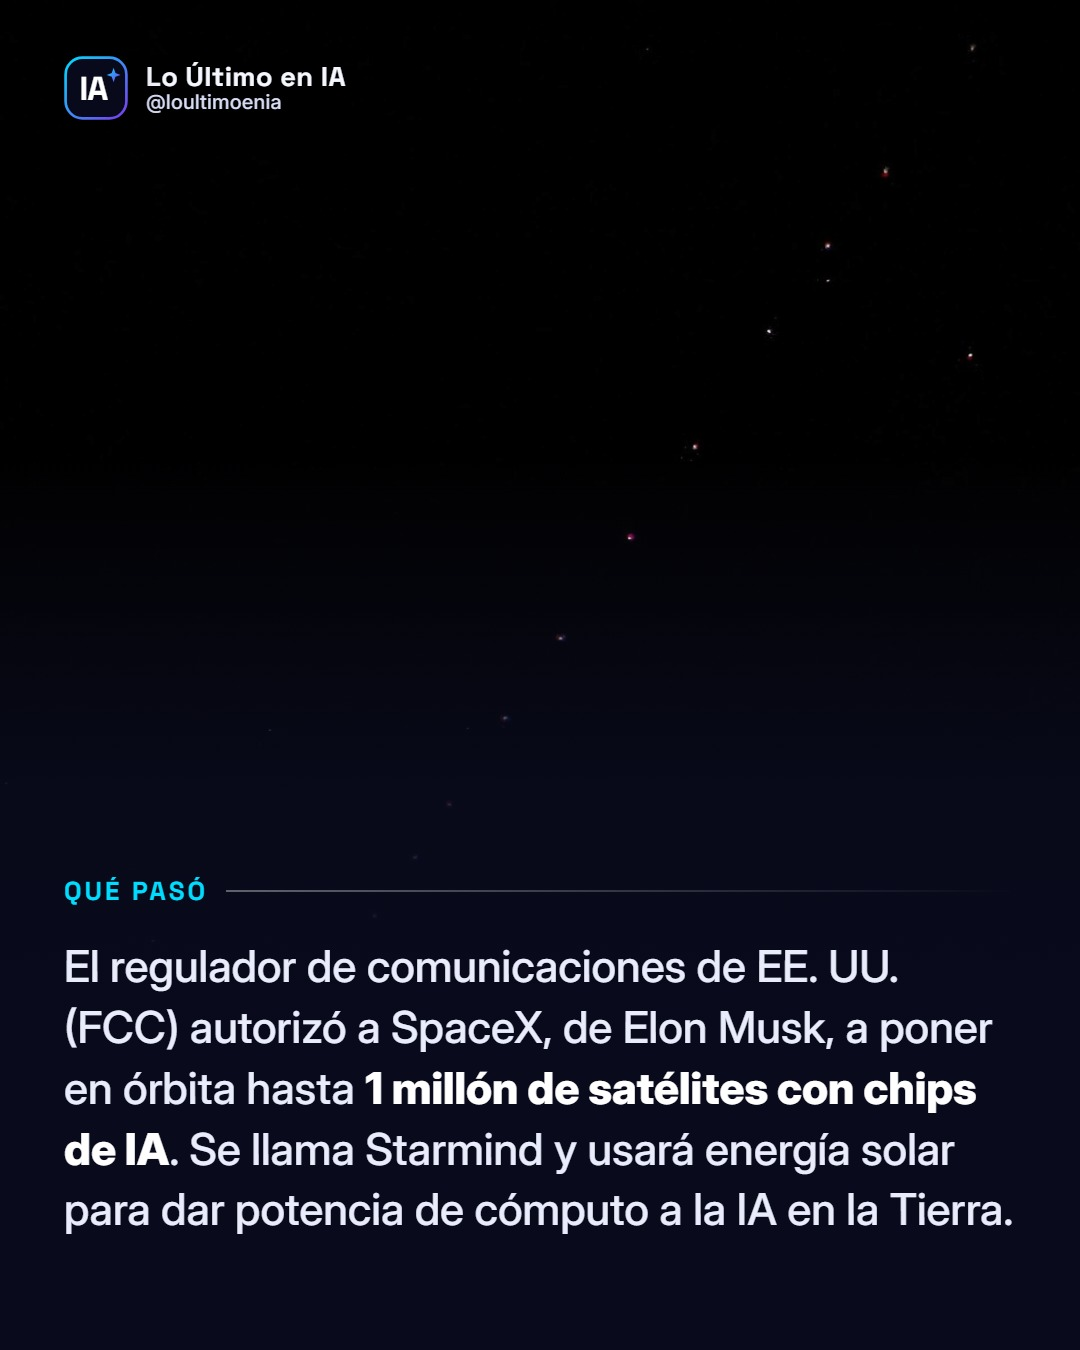
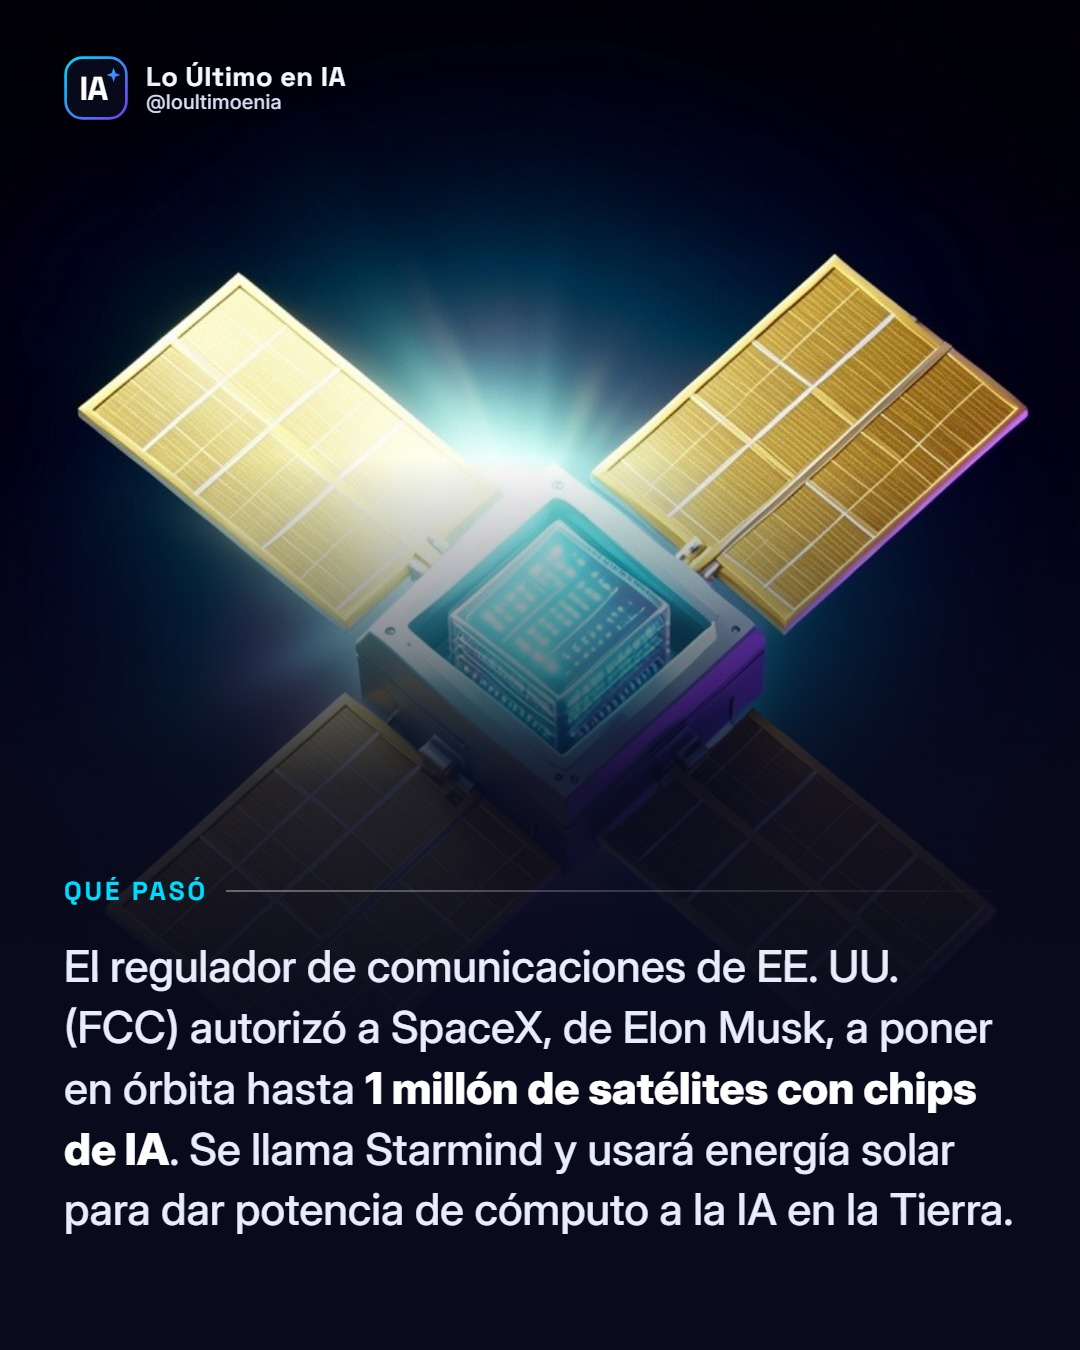
Nuevo post 20261125-1555

diff --git a/posts/20261125-1555/informe_agentes.md b/posts/20261125-1555/informe_agentes.md
@@ -8,3 +8,9 @@
 - **revisor-legal** — OK, riesgo bajo. Sugirió atribuir "primera constelación completa" a The Verge (aplicado en el slide 2; en el caption se quitó la frase).
 - **guionista-reels** — CAMBIOS, gancho 8/10. Tomé su texto 3 (remate "la carrera de la IA ya salió del planeta"); el gancho propuesto pasaba de 14 palabras y su texto 2 perdía la cifra, así que quedaron los míos.
 - **cazador-videos** — 2 clips libres: despegue nocturno de Falcon 9 (U.S. Space Force, dominio público) y Elon Musk en el Foro Económico Mundial 2026 (WEF, CC BY 4.0). Sin video libre de la FCC ni de Starmind.
+- **productor** — FORMATO: CARRUSEL. Noticia de regulación y cifras; los clips (Falcon 9 de un Starlink común, Musk en Davos) no muestran Starmind.
+- **director-arte** — CAMBIOS, 6/10. Slide 2 casi negro (foto de Starlink): pasado a ilustración. Ilustración 3 parecía lluvia de meteoros: ajustado el prompt. Portada con Musk OK (cabeza desenfocada de espaldas, no reconocible).
+- **editor-video** — CAMBIOS, 6/10 (arranque oscuro, falta Musk en pantalla, poca variedad). No se aplicó: el formato es carrusel y el Reel no se envía.
+
+**Cambios aplicados:** titular con "HASTA"; slide 1 y caption acortados; atribuciones a The Verge y SpaceX; guion del Reel retocado; foto 2 cambiada a ilustración y foto 3 a "Federal Communications Commission"; rearmado una vez.
+**Etiqueta de IA:** no hace falta (ilustraciones 3D, no fotos realistas; fotos reales con licencia libre).
